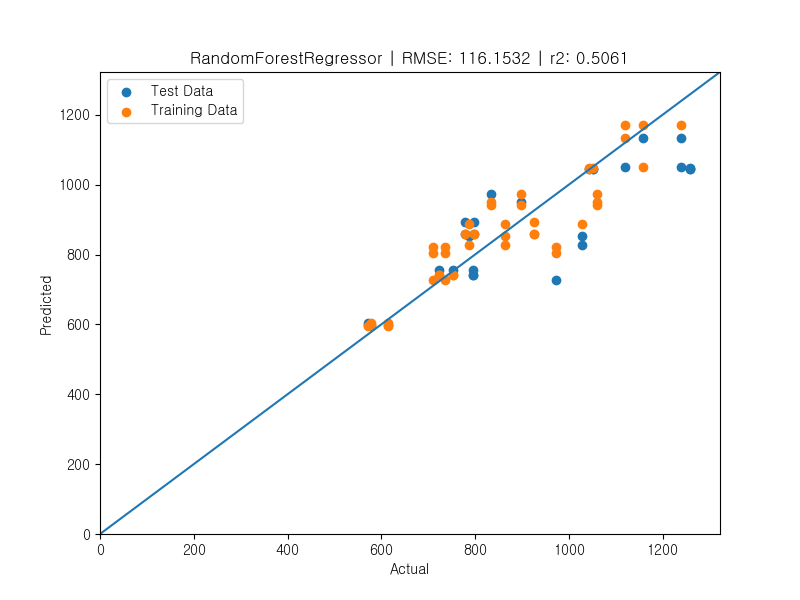
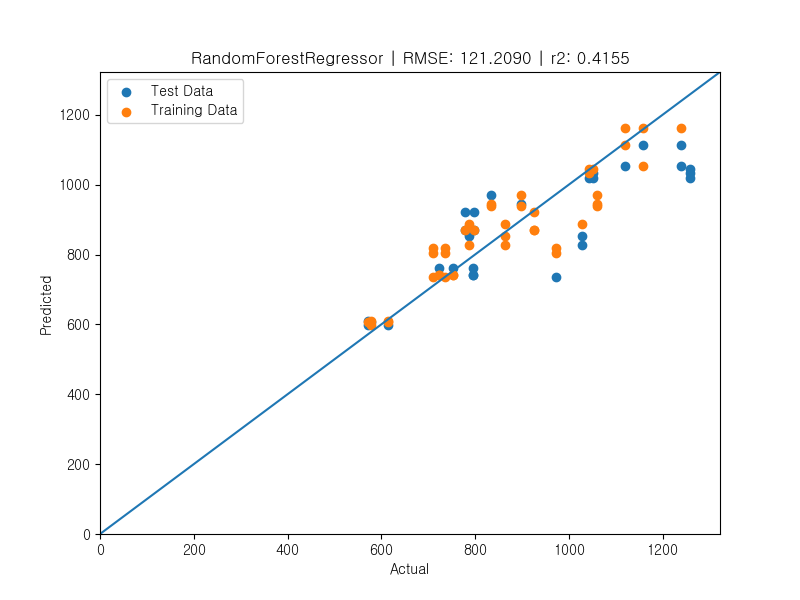
RF 모델 결과 수정

diff --git a/iksan/rf_model.py b/iksan/rf_model.py
@@ -37,9 +37,11 @@ def predict_yield(df, feature_predict_figname):
 
     # X_cols = ['간장(cm)_개화후2주', '군집(LAI)_개화후2주', 'SPAD_분얼전기', '엽록소함량(µmol/m2)_개화후4주']
 
-    X_cols = ['군집(LAI)_개화기', '엽록소함량(µmol/m2)_개화후4주', '유수길이(mm)_분얼전기', '엽록소함량(µmol/m2)_개화후2주', 'LAI_분얼후기', '간장(cm)_개화후2주',
-     '초장(cm)_분얼전기', 'SPAD_분얼전기', '초장(cm)_분얼후기', '군집(LAI)_개화후2주']
-    X_cols = ['간장(cm)_개화후2주', '군집(LAI)_개화후2주', 'SPAD_분얼전기']
+    # X_cols = ['군집(LAI)_개화기', '엽록소함량(µmol/m2)_개화후4주', '유수길이(mm)_분얼전기', '엽록소함량(µmol/m2)_개화후2주', 'LAI_분얼후기', '간장(cm)_개화후2주',
+    #  '초장(cm)_분얼전기', 'SPAD_분얼전기', '초장(cm)_분얼후기', '군집(LAI)_개화후2주']
+    # X_cols = ['간장(cm)_개화후2주', '군집(LAI)_개화후2주', 'SPAD_분얼전기']
+    X_cols = ['간장(cm)_개화후2주', '군집(LAI)_개화후2주', 'SPAD_분얼전기', 'CVI_개화후2주', '엽록소함량(µmol/m2)_개화후4주', 'NDRE_개화기', '초장(cm)_분얼후기', '군집(LAI)_개화기', 'LAI_분얼전기', 'GNDVI_개화후2주']
+
 
     print(X_cols)
     plot_cols = ['관개', '시비', '파종']

diff --git a/iksan/README.md b/iksan/README.md
@@ -1,15 +1,16 @@
 #### 4차(드론 데이터 생체중/건조중 반복에 대해  LAI 등 조사결과 10반복 병합)
 
 * RandomForest
-![fig_RFimportance](https://github.com/SmartDigitalAg/Wheat-Yield-Estimation/assets/93760723/6ac82338-dacb-4b37-b737-48e5d6d6a852)
+
+![fig_RFimportance](https://github.com/SmartDigitalAg/Wheat-Yield-Estimation/assets/93760723/db1fa326-04bf-42e0-a42c-bb03e25e8495)
 
 * RandomForest-1(top10)
 
-'군집(LAI)_개화기', '엽록소함량(µmol/m2)_개화후4주', '유수길이(mm)_분얼전기', '엽록소함량(µmol/m2)_개화후2주', 'LAI_분얼후기', '간장(cm)_개화후2주', '초장(cm)_분얼전기', 'SPAD_분얼전기', '초장(cm)_분얼후기', '군집(LAI)_개화후2주' + 관개/시비/파종
+'간장(cm)_개화후2주', '군집(LAI)_개화후2주', 'SPAD_분얼전기', 'CVI_개화후2주', '엽록소함량(µmol/m2)_개화후4주', 'NDRE_개화기', '초장(cm)_분얼후기', '군집(LAI)_개화기', 'LAI_분얼전기', 'GNDVI_개화후2주'+관개/시비/파종
 
-MAE: 91.90, R2score: 0.48, RMSE: 119.05
+MAE: 95.32, R2score: 0.42, RMSE: 121.21
 
-![RF_predict](https://github.com/SmartDigitalAg/Wheat-Yield-Estimation/assets/93760723/a8c1c47b-10c9-43ea-b3da-c28e861286e3)
+![RF_predict](https://github.com/SmartDigitalAg/Wheat-Yield-Estimation/assets/93760723/f98b67b6-c731-47de-9c27-5736816e407a)
 
 * RandomForest-2(top3)
 
@@ -24,8 +25,7 @@ MAE: 88.14, R2score: 0.51, RMSE: 116.15
 
 * XGB
 
-![fig_XGBimportance](https://github.com/SmartDigitalAg/Wheat-Yield-Estimation/assets/93760723/f615aa00-2b0e-4f67-bd2a-ea3510bbbb02)
-
+![fig_XGBimportance](https://github.com/SmartDigitalAg/Wheat-Yield-Estimation/assets/93760723/b4d7caab-edfe-415f-b0ab-20495a98f442)
 
 * XGB-1(top10)
 
